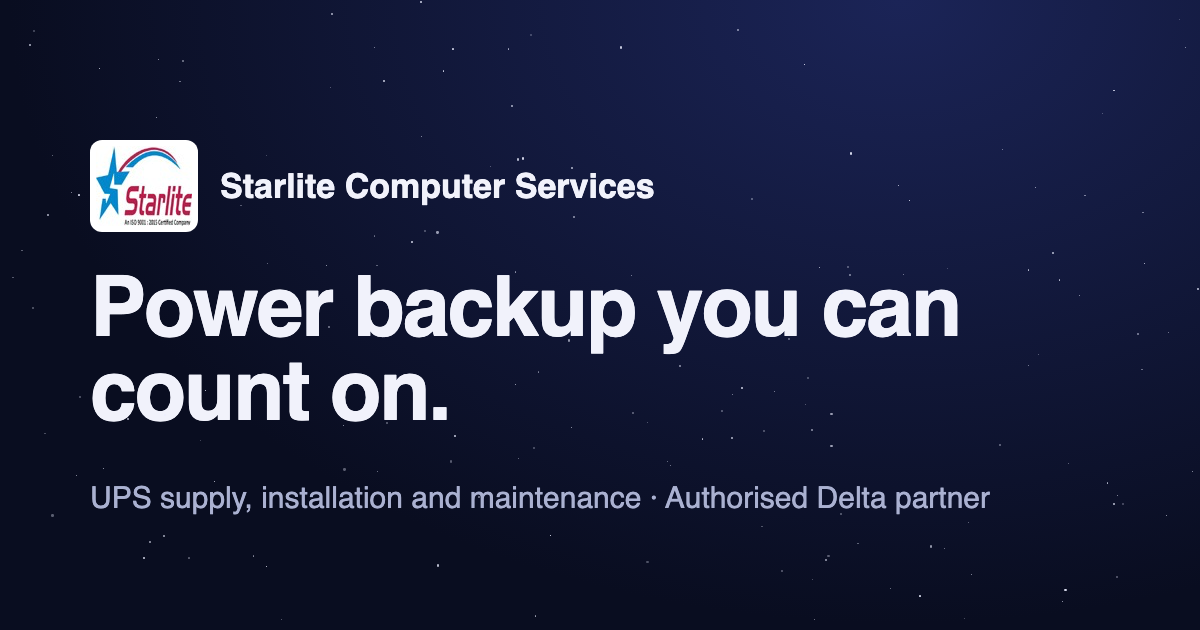
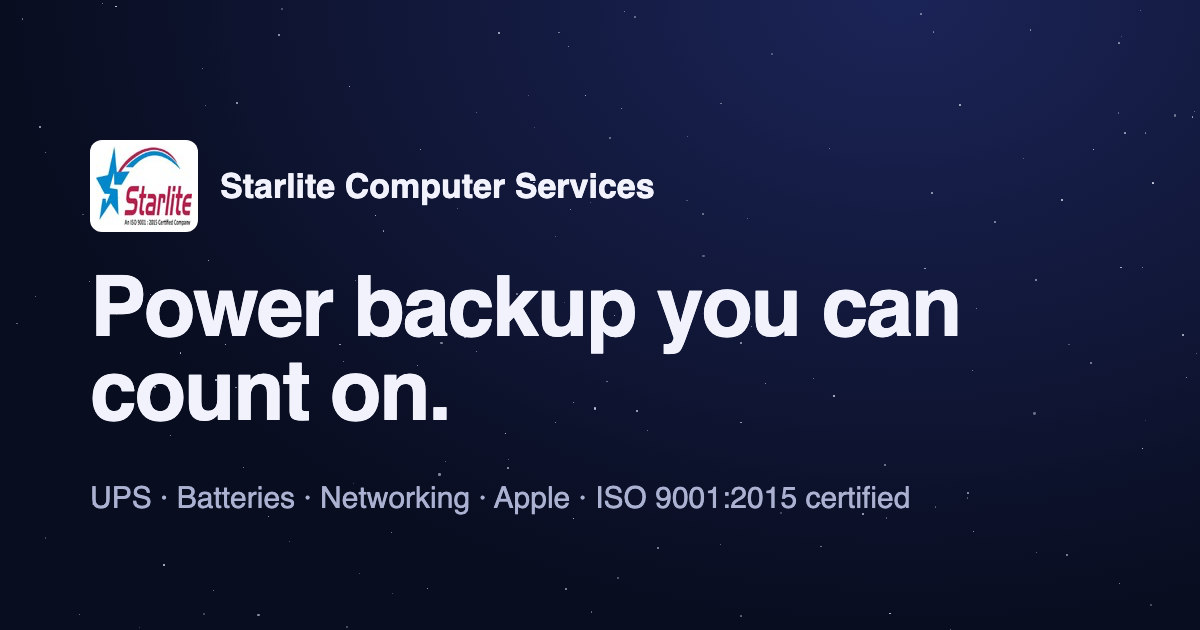
Improve phone layout, add industries we serve and trust badges
- Fix the header overflowing narrow phone screens
- Add an Industries we serve section (industry names only) to the home
  and About pages
- Add ISO 9001:2015 and partner badges under the home hero
- Bring the home, About, footer, 404, search descriptions and social
  image up to date with batteries, networking and Apple

Changed region(s): [[0.1233, 0.754, 0.8325, 0.8143]]

diff --git a/index.html b/index.html
@@ -4,7 +4,7 @@
   <meta charset="utf-8">
   <meta name="viewport" content="width=device-width, initial-scale=1">
   <title>Starlite Computer Services | UPS sales, installation and maintenance</title>
-  <meta name="description" content="Starlite Computer Services supplies, installs and maintains UPS systems so your computers and equipment stay on when the power goes out.">
+  <meta name="description" content="ISO 9001:2015 certified UPS, battery, networking and Apple solutions in Hyderabad and Vijayawada. Authorised Delta and Amara Raja partner, and Apple direct partner.">
   <link rel="preconnect" href="https://fonts.googleapis.com">
   <link rel="preconnect" href="https://fonts.gstatic.com" crossorigin>
   <link href="https://fonts.googleapis.com/css2?family=Bricolage+Grotesque:opsz,wght@12..96,500;12..96,700&family=Hanken+Grotesk:wght@400;500;600&display=swap" rel="stylesheet">
@@ -15,12 +15,12 @@
   <meta property="og:type" content="website">
   <meta property="og:site_name" content="Starlite Computer Services">
   <meta property="og:title" content="Starlite Computer Services | UPS sales, installation and maintenance">
-  <meta property="og:description" content="Starlite Computer Services supplies, installs and maintains UPS systems so your computers and equipment stay on when the power goes out.">
+  <meta property="og:description" content="ISO 9001:2015 certified UPS, battery, networking and Apple solutions in Hyderabad and Vijayawada. Authorised Delta and Amara Raja partner, and Apple direct partner.">
   <meta property="og:url" content="https://starlitecomputerservices.com/">
   <meta property="og:image" content="https://starlitecomputerservices.com/images/og-image.png">
   <meta name="twitter:card" content="summary_large_image">
   <script>try{if(localStorage.getItem("starlit-theme")==="light")document.documentElement.setAttribute("data-theme","light")}catch(e){}</script>
-  <script type="application/ld+json">{"@context": "https://schema.org", "@type": "Organization", "name": "Starlite Computer Services", "url": "https://starlitecomputerservices.com/", "logo": "https://starlitecomputerservices.com/images/starlite-logo.png", "email": "srinivasrao@starlitecomputerservices.com", "areaServed": ["Andhra Pradesh", "Telangana"], "description": "UPS supply, installation, maintenance, repair, battery replacement and rental. Authorised Delta Electronics partner.", "subOrganization": [{"@type": "LocalBusiness", "name": "Starlite Computer Services, Vijayawada", "address": {"@type": "PostalAddress", "streetAddress": "Jyothirmayee Hospital, 1-274-1, Poranki", "addressLocality": "Vijayawada", "addressRegion": "Andhra Pradesh", "addressCountry": "IN"}, "telephone": "99849990056", "email": "srinivasrao@starlitecomputerservices.com"}, {"@type": "LocalBusiness", "name": "Starlite Computer Services, Hyderabad", "address": {"@type": "PostalAddress", "streetAddress": "Kamadhenu Towers, G1, Moti Nagar, opp. Hanuman Temple", "addressLocality": "Hyderabad", "addressRegion": "Telangana", "addressCountry": "IN"}, "telephone": "99849990056", "email": "srinivasrao@starlitecomputerservices.com"}]}</script>
+  <script type="application/ld+json">{"@context": "https://schema.org", "@type": "Organization", "name": "Starlite Computer Services", "url": "https://starlitecomputerservices.com/", "logo": "https://starlitecomputerservices.com/images/starlite-logo.png", "email": "srinivasrao@starlitecomputerservices.com", "areaServed": ["Andhra Pradesh", "Telangana"], "description": "ISO 9001:2015 certified. UPS supply, installation, maintenance, repair, battery replacement and rental, business networking and Apple products. Authorised Delta Electronics and Amara Raja partner, and Apple direct partner.", "subOrganization": [{"@type": "LocalBusiness", "name": "Starlite Computer Services, Vijayawada", "address": {"@type": "PostalAddress", "streetAddress": "Jyothirmayee Hospital, 1-274-1, Poranki", "addressLocality": "Vijayawada", "addressRegion": "Andhra Pradesh", "addressCountry": "IN"}, "telephone": "99849990056", "email": "srinivasrao@starlitecomputerservices.com"}, {"@type": "LocalBusiness", "name": "Starlite Computer Services, Hyderabad", "address": {"@type": "PostalAddress", "streetAddress": "Kamadhenu Towers, G1, Moti Nagar, opp. Hanuman Temple", "addressLocality": "Hyderabad", "addressRegion": "Telangana", "addressCountry": "IN"}, "telephone": "99849990056", "email": "srinivasrao@starlitecomputerservices.com"}]}</script>
 </head>
 <body data-page="home">
 <a class="skip-link" href="#main">Skip to content</a>
@@ -32,11 +32,17 @@
     <canvas id="sky" aria-hidden="true"></canvas>
     <div class="wrap">
       <h1>Power backup you can count on.</h1>
-      <p class="lead">Starlite Computer Services supplies, installs and maintains UPS systems across Andhra Pradesh and Telangana, so your computers, servers and equipment stay on when the power goes out.</p>
+      <p class="lead">Starlite Computer Services supplies, installs and maintains UPS systems, batteries and business networks across Andhra Pradesh and Telangana, so your computers, servers and equipment stay on when the power goes out.</p>
       <div class="actions">
         <a class="btn" href="contact.html">Get a quote</a>
         <a class="btn ghost" href="#services">See our services</a>
       </div>
+      <ul class="trust" aria-label="Certifications and partnerships">
+        <li><svg viewBox="0 0 24 24" fill="none" stroke="currentColor" stroke-width="2.2" stroke-linecap="round" stroke-linejoin="round" aria-hidden="true"><path d="M5 12.5l4.5 4.5L19 7.5"/></svg>ISO 9001:2015 certified</li>
+        <li><svg viewBox="0 0 24 24" fill="none" stroke="currentColor" stroke-width="2.2" stroke-linecap="round" stroke-linejoin="round" aria-hidden="true"><path d="M5 12.5l4.5 4.5L19 7.5"/></svg>Authorised Delta partner</li>
+        <li><svg viewBox="0 0 24 24" fill="none" stroke="currentColor" stroke-width="2.2" stroke-linecap="round" stroke-linejoin="round" aria-hidden="true"><path d="M5 12.5l4.5 4.5L19 7.5"/></svg>Apple direct partner</li>
+        <li><svg viewBox="0 0 24 24" fill="none" stroke="currentColor" stroke-width="2.2" stroke-linecap="round" stroke-linejoin="round" aria-hidden="true"><path d="M5 12.5l4.5 4.5L19 7.5"/></svg>Authorised Amara Raja partner</li>
+      </ul>
       <p class="hint">Move your cursor or finger across the sky to join the stars.</p>
     </div>
   </div>
@@ -82,6 +88,16 @@
   <section class="alt">
     <div class="wrap">
       <div class="section-head">
+        <h2>Industries we serve</h2>
+        <p>Organisations that can't afford downtime trust us with their power, networks and devices.</p>
+      </div>
+      <div class="industry-grid" id="industries"></div>
+    </div>
+  </section>
+
+  <section>
+    <div class="wrap">
+      <div class="section-head">
         <h2>Our partners</h2>
         <p>We work with leading technology brands.</p>
       </div>
@@ -90,7 +106,7 @@
     </div>
   </section>
 
-  <section class="cta">
+  <section class="alt cta">
     <div class="wrap">
       <h2>Tell us about your power backup needs</h2>
       <p>Share your load, location and any current UPS details, and we'll reply with a clear quote. No obligation.</p>

diff --git a/script.js b/script.js
@@ -1,13 +1,13 @@
 /* =========================================================
    Starlite Computer Services - script
-   EDIT THE THREE BLOCKS AT THE TOP (SITE, PARTNERS, STORIES).
+   EDIT THE FOUR BLOCKS AT THE TOP (SITE, PARTNERS, INDUSTRIES, STORIES).
    Everything below them builds the pages from that information.
    ========================================================= */
 
 /* ---------- 1. Company details (hours are still a PLACEHOLDER) ---------- */
 const SITE = {
   name: "Starlite Computer Services",
-  tagline: "UPS supply, installation, maintenance and repair, so your power backup never lets you down.",
+  tagline: "UPS systems, batteries, networking and Apple for business, so your work never stops when the power goes out. An ISO 9001:2015 certified company.",
   phone: "99849990056",
   phoneLink: "99849990056",
   email: "srinivasrao@starlitecomputerservices.com",
@@ -45,7 +45,19 @@ const PARTNERS = [
 ];
 
 
-/* ---------- 3. Success stories ----------
+/* ---------- 3. Industries we serve ----------
+   Shown on the home and About pages. Industry names only, never client names.
+   icon: one of the keys in INDUSTRY_ICONS below. */
+const INDUSTRIES = [
+  { icon: "film", title: "Cinemas and multiplexes", text: "Projection, sound, ticketing and F&B systems that can't stop mid-show." },
+  { icon: "clapper", title: "Film production and VFX", text: "Edit suites, render farms and storage for production houses and studios." },
+  { icon: "gov", title: "Government, police and defence", text: "Control rooms, surveillance and communication systems that run around the clock." },
+  { icon: "health", title: "Hospitals and diagnostics", text: "Lab analysers, imaging and patient systems that need clean, steady power." },
+  { icon: "pill", title: "Pharmaceuticals and research labs", text: "QC labs, process controls and the data systems behind compliance." },
+  { icon: "bank", title: "Banking and financial services", text: "Branch servers, ATMs and teams that can't afford a minute offline." }
+];
+
+/* ---------- 4. Success stories ----------
    Each entry becomes a card on success-stories.html AND its own full page
    (success-story.html?id=your-id). The first three also appear on the home page.
    Stories with partner: "apple" also appear on apple.html.
@@ -336,6 +348,29 @@ function logoCard(item) {
   });
   card.appendChild(img);
   return card;
+}
+
+const INDUSTRY_ICONS = {
+  film: '<svg viewBox="0 0 24 24" fill="none" stroke="currentColor" stroke-width="1.8" stroke-linecap="round" stroke-linejoin="round" aria-hidden="true"><rect x="3" y="4" width="18" height="16" rx="2"/><path d="M7 4v16M17 4v16M3 9h4M3 15h4M17 9h4M17 15h4"/></svg>',
+  clapper: '<svg viewBox="0 0 24 24" fill="none" stroke="currentColor" stroke-width="1.8" stroke-linecap="round" stroke-linejoin="round" aria-hidden="true"><path d="M4 11h16v8a1 1 0 0 1-1 1H5a1 1 0 0 1-1-1z"/><path d="M4 11l-.6-3.4a1 1 0 0 1 .8-1.2l13.8-2.4a1 1 0 0 1 1.2.8L19.6 7 4 11"/><path d="M8.5 5.6l2 4.2M13.5 4.7l2 4.2"/></svg>',
+  gov: '<svg viewBox="0 0 24 24" fill="none" stroke="currentColor" stroke-width="1.8" stroke-linecap="round" stroke-linejoin="round" aria-hidden="true"><path d="M3 9l9-5 9 5M5 9v9M9.5 9v9M14.5 9v9M19 9v9M3 21h18"/></svg>',
+  health: '<svg viewBox="0 0 24 24" fill="none" stroke="currentColor" stroke-width="1.8" stroke-linecap="round" stroke-linejoin="round" aria-hidden="true"><rect x="3" y="3" width="18" height="18" rx="4"/><path d="M12 8v8M8 12h8"/></svg>',
+  pill: '<svg viewBox="0 0 24 24" fill="none" stroke="currentColor" stroke-width="1.8" stroke-linecap="round" stroke-linejoin="round" aria-hidden="true"><path d="M10.5 20.5a5 5 0 0 1-7-7l9-9a5 5 0 0 1 7 7z"/><path d="M8.5 8.5l7 7"/></svg>',
+  bank: '<svg viewBox="0 0 24 24" fill="none" stroke="currentColor" stroke-width="1.8" stroke-linecap="round" stroke-linejoin="round" aria-hidden="true"><rect x="2" y="6" width="20" height="13" rx="2"/><path d="M2 10h20M6 15h4"/></svg>'
+};
+
+function buildIndustries() {
+  var host = document.getElementById("industries");
+  if (!host) return;
+  INDUSTRIES.forEach(function (ind) {
+    var card = el("article", "industry");
+    var icon = el("span", "industry-icon");
+    icon.innerHTML = INDUSTRY_ICONS[ind.icon] || "";
+    card.appendChild(icon);
+    card.appendChild(el("h3", null, ind.title));
+    card.appendChild(el("p", null, ind.text));
+    host.appendChild(card);
+  });
 }
 
 /* Big partner cards for the Partners page (logo box + name underneath) */
@@ -629,6 +664,7 @@ buildHeader();
 buildFooter();
 buildServices();
 buildStoryList("story-preview", 3);
+buildIndustries();
 buildPartnerCards("partner-grid");
 buildPartners("partner-preview", "wide");
 buildContact();

diff --git a/about.html b/about.html
@@ -29,7 +29,7 @@
 <main id="main">
   <div class="wrap page-head">
     <h1>Our story</h1>
-    <p>We started by supplying computer peripherals to the Telugu film industry. Today, cinemas, hospitals, government bodies and pharma companies across Andhra Pradesh and Telangana rely on us to keep their power on.</p>
+    <p>We started by supplying computer peripherals to the Telugu film industry. Today, cinemas, studios, hospitals, government bodies, pharma companies and banks across Andhra Pradesh and Telangana rely on us to keep their power, networks and devices running.</p>
   </div>
 
   <section class="about-story">
@@ -38,7 +38,7 @@
         <h2>Built on the film industry</h2>
         <p>Starlite Computer Services began as a small computer peripherals shop. Through a friend in Tollywood, our founder started supplying production houses with the equipment they needed, and the business grew one film and one studio at a time.</p>
         <p>Working with production houses and cinemas showed us how much depends on uninterrupted power. A projector that cuts out mid-show or an edit suite that loses a day's work is a real cost. UPS systems became the heart of what we do.</p>
-        <p>Today we have completed more than 600 installations and supported over 600 theatres across Andhra Pradesh and Telangana. We are an authorised partner of Delta Electronics, with offices in Hyderabad and Vijayawada.</p>
+        <p>Today we have completed more than 600 installations and supported over 600 theatres across Andhra Pradesh and Telangana. We are an ISO 9001:2015 certified company, an authorised partner of Delta Electronics and Amara Raja, and an Apple direct partner, with offices in Hyderabad and Vijayawada.</p>
       </div>
 
       <ol class="timeline" aria-label="How we grew">
@@ -58,6 +58,10 @@
           <h3>Authorised Delta partner</h3>
           <p>Now serving government, healthcare and pharmaceutical organizations too.</p>
         </li>
+        <li>
+          <h3>Beyond power</h3>
+          <p>Apple direct partner, Amara Raja batteries and business networking, all ISO 9001:2015 certified.</p>
+        </li>
       </ol>
     </div>
   </section>
@@ -76,13 +80,14 @@
   <section>
     <div class="wrap">
       <div class="section-head">
-        <h2>Who we work with</h2>
-        <p>The same care we learned in cinemas now protects police control rooms, diagnostic labs, hospitals and pharmaceutical plants.</p>
+        <h2>Industries we serve</h2>
+        <p>The same care we learned in cinemas now protects police control rooms, diagnostic labs, hospitals, pharmaceutical plants and banks.</p>
       </div>
-      <div class="about-links two">
+      <div class="industry-grid" id="industries"></div>
+      <div class="about-links two" style="margin-top: 2.5rem">
         <a class="about-link" href="partners.html">
           <h3>Our partners</h3>
-          <p>Authorised partner of Delta Electronics, and other leading brands.</p>
+          <p>Delta Electronics, Amara Raja and Apple.</p>
         </a>
         <a class="about-link" href="success-stories.html">
           <h3>Success stories</h3>

diff --git a/style.css b/style.css
@@ -144,6 +144,12 @@ img { max-width: 100%; display: block; }
   .has-menu { padding-block: 0; }
   .menu { position: static; box-shadow: none; border: 0; background: transparent; padding: 0 0 .5rem .75rem; min-width: 0; }
 }
+@media (max-width: 520px) {
+  .bar { gap: .75rem; }
+  .site-header .brand { white-space: normal; font-size: 1rem; line-height: 1.15; min-width: 0; }
+  .brand-logo { width: 40px; height: 34px; }
+  .tools { gap: .5rem; }
+}
 
 /* ---------- Buttons ---------- */
 .btn {
@@ -337,6 +343,22 @@ form.form .btn { justify-self: start; }
 /* An odd card left alone on the last row stretches across it */
 @media (min-width: 961px) { #service-cards .card:last-child:nth-child(3n+1) { grid-column: 1 / -1; } }
 @media (min-width: 601px) and (max-width: 960px) { #service-cards .card:last-child:nth-child(2n+1) { grid-column: 1 / -1; } }
+
+/* ---------- Industries we serve ---------- */
+.industry-grid { display: grid; grid-template-columns: repeat(3, 1fr); gap: 1.25rem; }
+.industry { background: var(--surface); border: 1px solid var(--line); border-radius: 18px; padding: 1.6rem; display: flex; flex-direction: column; gap: .55rem; }
+.industry h3 { font-size: 1.25rem; }
+.industry p { color: var(--muted); }
+.industry-icon { display: grid; place-items: center; width: 48px; height: 48px; margin-bottom: .35rem; border-radius: 12px; background: rgba(242, 196, 109, 0.12); border: 1px solid rgba(242, 196, 109, 0.28); color: var(--accent); }
+.industry-icon svg { width: 24px; height: 24px; }
+:root[data-theme="light"] .industry-icon { color: #8a5a00; }
+@media (max-width: 960px) { .industry-grid { grid-template-columns: repeat(2, 1fr); } }
+@media (max-width: 600px) { .industry-grid { grid-template-columns: 1fr; } }
+
+/* ---------- Trust badges under the home hero ---------- */
+.trust { margin-top: 2.25rem; display: flex; flex-wrap: wrap; gap: .6rem; list-style: none; padding: 0; }
+.trust li { display: inline-flex; align-items: center; gap: .45rem; padding: .45rem .9rem; border-radius: 999px; border: 1px solid rgba(242, 196, 109, 0.3); background: rgba(10, 12, 28, 0.55); color: var(--night-ink); font-size: .92rem; font-weight: 500; }
+.trust svg { width: 16px; height: 16px; color: var(--accent); flex: none; }
 
 /* ---------- Networking page ---------- */
 .challenge { align-items: center; text-align: center; }

diff --git a/404.html b/404.html
@@ -31,6 +31,8 @@
         <a href="delta-ups.html">Delta UPS range</a>
         <a href="ups-sales.html">UPS supply and sales</a>
         <a href="ups-maintenance.html">Maintenance contracts</a>
+        <a href="networking.html">Networking solutions</a>
+        <a href="success-stories.html">Success stories</a>
         <a href="contact.html">Contact us</a>
       </div>
     </div>
